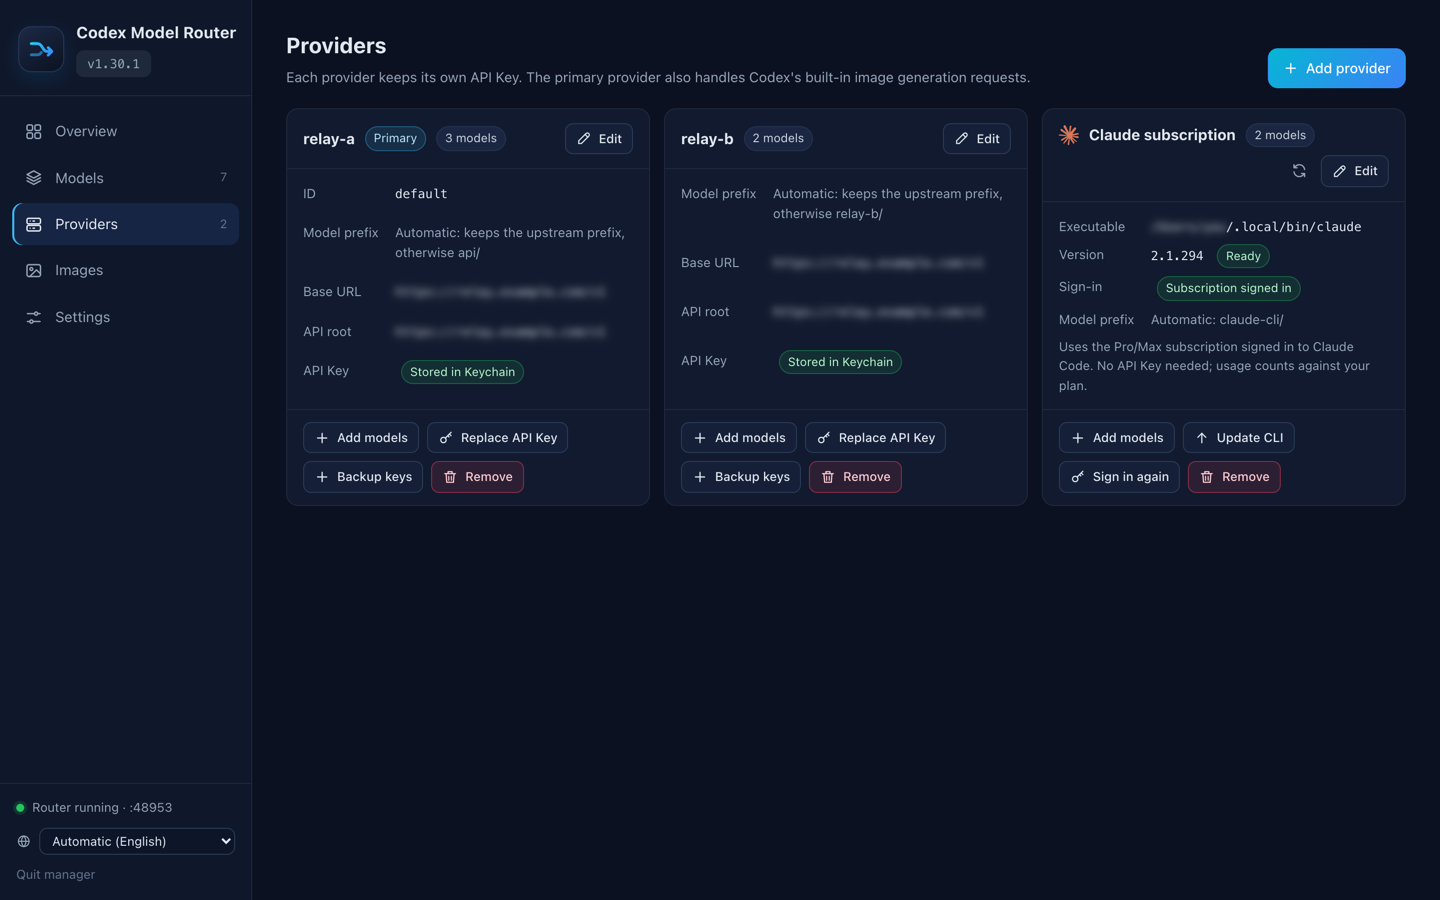
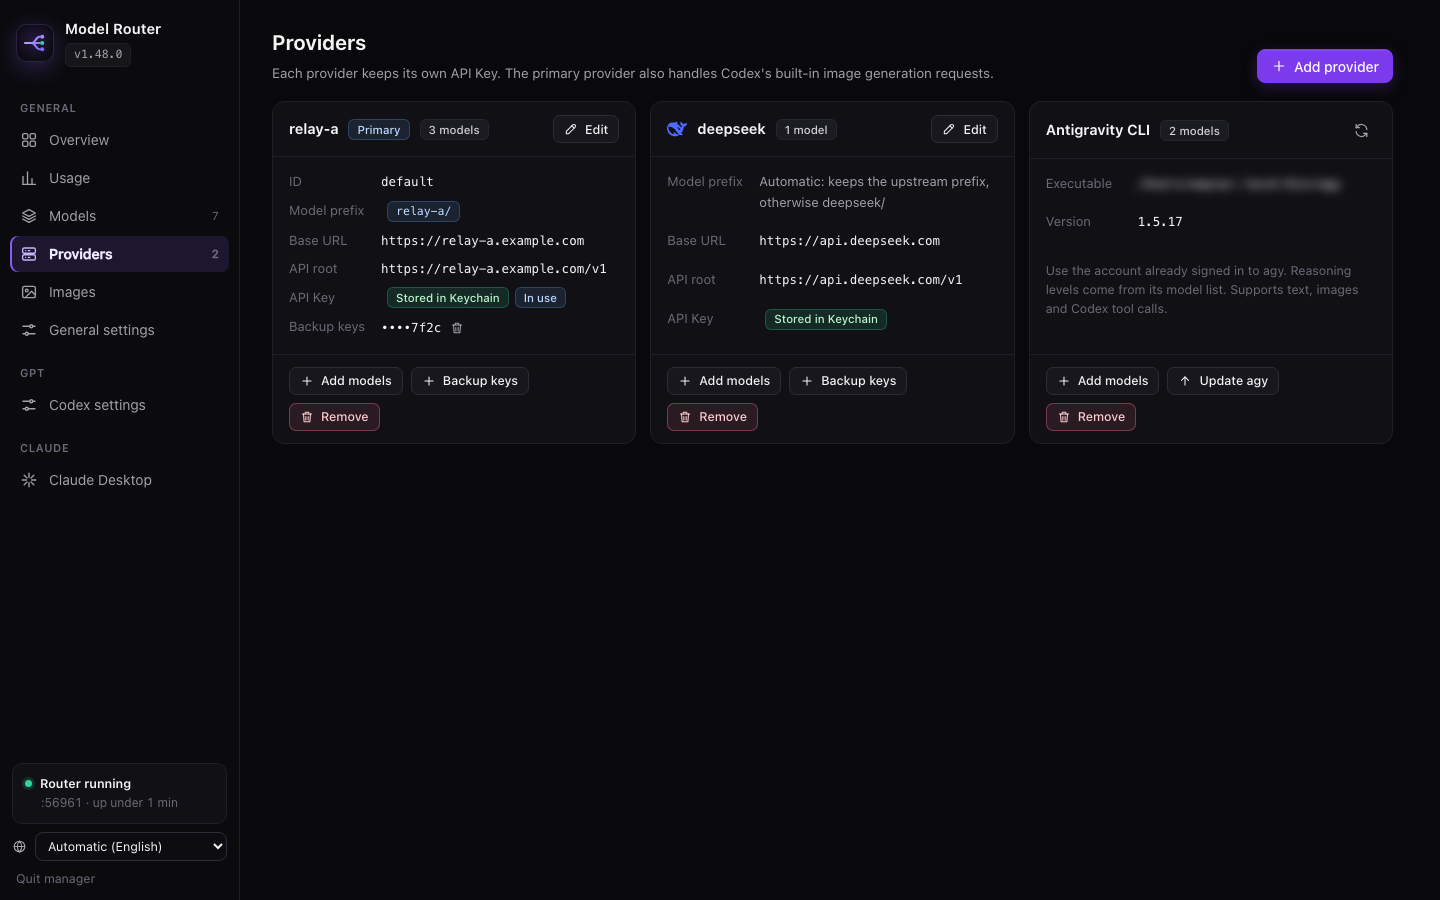
docs: refresh manager screenshots for the v1.48.0 interface

diff --git a/README.md b/README.md
@@ -96,9 +96,9 @@ curl.exe -fsSL --connect-timeout 10 --max-time 120 https://github.com/funkeyyou/
 
 <img src="docs/images/codex-manager-entry-zh-Hans.png" alt="Codex 侧边栏「更多」菜单中的自定义模型管理入口" width="300">
 
-<img src="docs/images/manager-models-zh-Hans.png" alt="网页管理页的模型列表：调整顺序、上下文、输出与推理强度">
+<img src="docs/images/manager-models-zh-Hans.png" alt="网页管理页的模型页：近 24 小时统计、后台任务模型，以及按供应商筛选的模型列表与组合模型">
 
-<img src="docs/images/manager-providers-zh-Hans.png" alt="网页管理页的供应商页：API Key 供应商与 Claude 订阅">
+<img src="docs/images/manager-providers-zh-Hans.png" alt="网页管理页的供应商页：API Key 供应商、备用 Key 与 Antigravity CLI">
 
 *截图中的供应商名称与网址已替换或模糊处理。*
 

diff --git a/README.zh-TW.md b/README.zh-TW.md
@@ -96,9 +96,9 @@ curl.exe -fsSL --connect-timeout 10 --max-time 120 https://github.com/funkeyyou/
 
 <img src="docs/images/codex-manager-entry-zh-Hant.png" alt="Codex 側邊欄「更多」選單中的自訂模型管理入口" width="300">
 
-<img src="docs/images/manager-models-zh-Hant.png" alt="網頁管理頁的模型列表：調整順序、上下文、輸出與推理強度">
+<img src="docs/images/manager-models-zh-Hant.png" alt="網頁管理頁的模型頁：近 24 小時統計、背景任務模型，以及依供應商篩選的模型列表與組合模型">
 
-<img src="docs/images/manager-providers-zh-Hant.png" alt="網頁管理頁的供應商頁：API Key 供應商與 Claude 訂閱">
+<img src="docs/images/manager-providers-zh-Hant.png" alt="網頁管理頁的供應商頁：API Key 供應商、備用 Key 與 Antigravity CLI">
 
 *截圖中的供應商名稱與網址已替換或模糊處理。*
 

diff --git a/README.en.md b/README.en.md
@@ -96,9 +96,9 @@ Day-to-day tasks live in the web manager. Open it from any of:
 
 <img src="docs/images/codex-manager-entry-en.png" alt="The Custom Model Manager entry in the Codex sidebar More menu" width="300">
 
-<img src="docs/images/manager-models-en.png" alt="Web manager models page: order, context, output and reasoning effort">
+<img src="docs/images/manager-models-en.png" alt="Web manager models page: 24-hour stats, background task model, and the model list filtered by provider, including a combo model">
 
-<img src="docs/images/manager-providers-en.png" alt="Web manager providers page: API Key providers and Claude subscription">
+<img src="docs/images/manager-providers-en.png" alt="Web manager providers page: API key providers, backup keys, and Antigravity CLI">
 
 *Provider names and URLs in the screenshots are replaced or blurred.*
 
